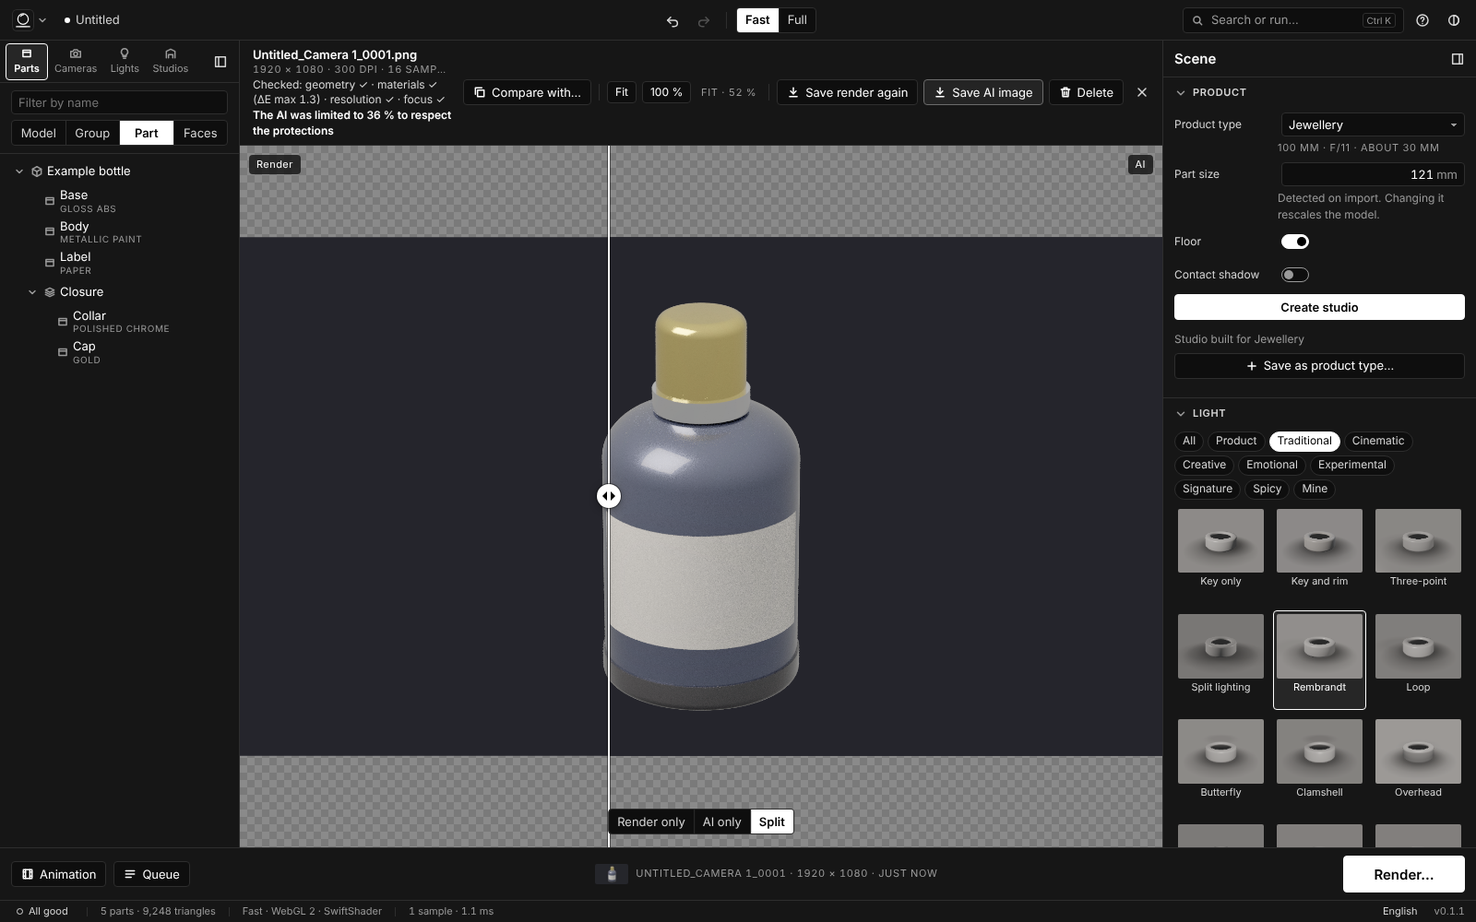
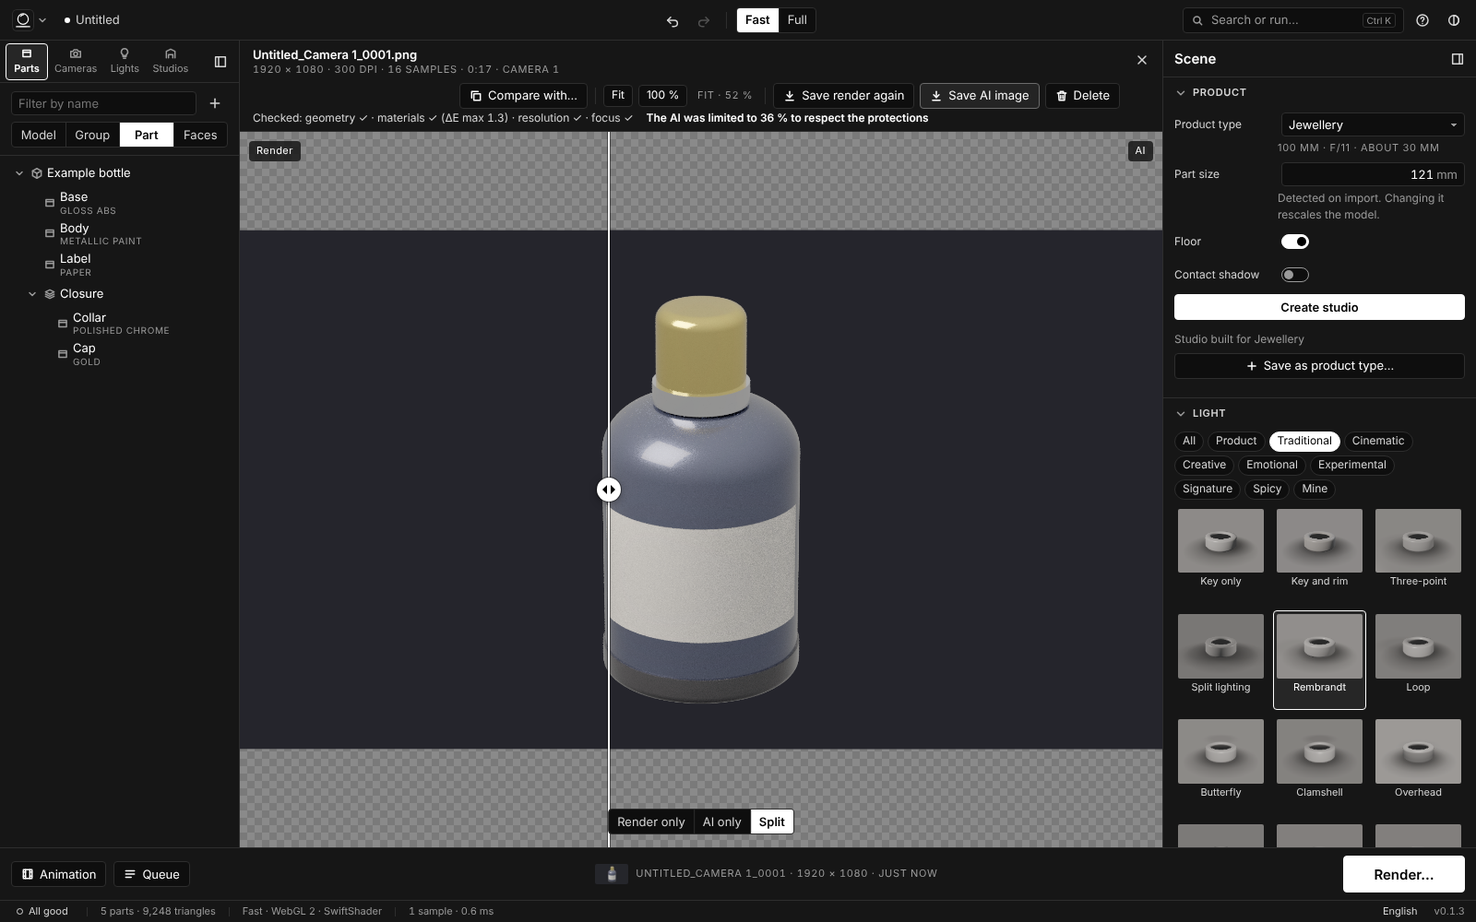
X3c: the render window knows the active model; the viewer's report gets a line of its own
Found by the screenshots against the real launcher:

- With no model chosen by hand the active model is the recommendation, and
  only Settings started the hardware detection it needs: on the desktop the
  AI switch said no model was downloaded and led to Settings. The desktop
  with aiPost now detects at start, the AI section starts it too, and the
  section asks again whenever what it asks changes (aiStatusKey in the new
  src/ui/ai-query.ts, which also holds aiRuntimeQuery and the
  recommendation). Tested, and the test fails with the old key.
- The results viewer squeezed the guard's report into a narrow column beside
  the title. The report now has a single line of its own across the header
  (ellipsis, full text in the tooltip), the toolbar wraps under the title
  when both do not fit, and Close stays in the corner.
  tools/ai-post-check.mjs (j) measures the header at 1600, 1280 and 960 px
  in English and Spanish and fails with the old header;
  docs/ui/ai-results-viewer.png and ai-results-light.png retaken.

Claude-Session: https://claude.ai/code/session_01Vyw8CoEN48cqBKpA2hjydX

diff --git a/src/ui/panels/results-viewer.ts b/src/ui/panels/results-viewer.ts
@@ -75,12 +75,14 @@ export function resultsViewer(ctx: Ctx, scope: Scope): HTMLElement {
   const hasAi = !!meta?.ai && meta.ai.bytes > 0;
   const saveBtn = h('button', { type: 'button', class: 'btn', onclick: () => meta && void cmd.saveResultAgain(ctx, meta.id) }, icon('download', 14), hasAi ? t('rv.saveRender') : t('rv.saveAgain'));
   const saveAiBtn = hasAi ? h('button', { type: 'button', class: 'btn', 'data-save': 'ai', onclick: () => meta && void cmd.saveResultAgain(ctx, meta.id, 'AI') }, icon('download', 14), t('rv.saveAi')) : null;
-  // The guard's report, in a line under the data (AI-POST.md §4): what was checked, and what the guard did.
+  // The guard's report (AI-POST.md §4): what was checked, and what the guard did. Its own line under the title and
+  // the toolbar, the whole width, one line; where it does not fit it ends in an ellipsis and the tooltip has it all,
+  // with what ran.
   const report = meta?.ai ? reportText(meta.ai.report) : null;
   const reportEl = report
     ? h(
         'div',
-        { class: 'rv-report', 'data-verdict': meta!.ai!.report.verdict, title: reportDetails(meta!.ai!.report, meta!.ai!.report.modelKey) },
+        { class: 'rv-report', 'data-verdict': meta!.ai!.report.verdict, title: `${[report.checked, report.note].filter(Boolean).join(' · ')}\n${reportDetails(meta!.ai!.report, meta!.ai!.report.modelKey)}` },
         report.checked ? h('span', { class: 'rv-report-checked tabular' }, report.checked) : null,
         report.note ? h('span', { class: `rv-report-note${meta!.ai!.report.verdict === 'REJECTED' ? ' is-rejected' : ''}` }, report.note) : null,
       )
@@ -106,7 +108,7 @@ export function resultsViewer(ctx: Ctx, scope: Scope): HTMLElement {
         )
       : null;
   const deleteBtn = h('button', { type: 'button', class: 'btn', 'data-tip': t('rv.deleteTip'), onclick: () => meta && void cmd.deleteResult(ctx, meta.id) }, icon('trash', 14), t('common.delete'));
-  const closeBtn = h('button', { type: 'button', class: 'icon-btn', 'aria-label': t('common.close'), 'data-tip': t('common.close'), 'data-kbd': t('key.escape'), onclick: () => cmd.closeResult(ctx) }, icon('close'));
+  const closeBtn = h('button', { type: 'button', class: 'icon-btn rv-close', 'aria-label': t('common.close'), 'data-tip': t('common.close'), 'data-kbd': t('key.escape'), onclick: () => cmd.closeResult(ctx) }, icon('close'));
   const memory = h('div', { class: 'note rv-memory' }, t('queue.storageMemory'));
   scope.watch((_s, u) => u.resultsStorage, (st) => (memory.style.display = st === 'MEMORY' ? '' : 'none'));
 
@@ -116,8 +118,16 @@ export function resultsViewer(ctx: Ctx, scope: Scope): HTMLElement {
     h(
       'div',
       { class: 'rv-head' },
-      h('div', { class: 'rv-info' }, title, data, reportEl, memory),
-      h('div', { class: 'rv-actions' }, compareBtn, h('span', { class: 'rv-sep' }), fitBtn, actualBtn, zoomText, h('span', { class: 'rv-sep' }), saveBtn, saveAiBtn, folderBtn, deleteBtn, closeBtn),
+      // The title block and the toolbar share a line while both fit; otherwise the toolbar goes under the title.
+      // Close stays in the corner.
+      h(
+        'div',
+        { class: 'rv-top' },
+        h('div', { class: 'rv-info' }, title, data, memory),
+        h('div', { class: 'rv-actions' }, compareBtn, h('span', { class: 'rv-sep' }), fitBtn, actualBtn, zoomText, h('span', { class: 'rv-sep' }), saveBtn, saveAiBtn, folderBtn, deleteBtn),
+      ),
+      reportEl,
+      closeBtn,
     ),
     frame,
   );

diff --git a/tests/ai-desktop-service.test.ts b/tests/ai-desktop-service.test.ts
@@ -9,6 +9,10 @@ import { FLOOR_ID, type RenderPasses } from '../src/core/passes';
 import { AiPostError, decodeLinearImage, DesktopAiService, encodeLinearImage, encodePasses, inlineBody, type AiPostState } from '../src/io/ai-post';
 import { parsePasses } from '../src/render/pass-planes';
 import { straightBytes, straightExr, straightOf, straightWords16, exactBytes, exactWords16, linearRgba } from '../src/render/tiles';
+import { emptySnapshot, type HardwareInfo } from '../src/core/models';
+import { AI_MODELS } from '../src/data/ai-models';
+import { aiRuntimeQuery, aiStatusKey } from '../src/ui/ai-query';
+import { defaultUiState, type UiState } from '../src/ui/ui-state';
 
 const REPORT: GuardReport = {
   verdict: 'ACCEPTED',
@@ -215,5 +219,30 @@ describe('the AI image of a RENDER source is written as the engine’s file (X3c
     expect([...pp.passes.normal!]).toEqual([0, 0, 1, 1, 0, 0]);
     expect([...pp.passes.coc!]).toEqual([0, 3.5]);
     expect(() => encodePasses({ width: 3, height: 1, depth: new Float32Array(2) })).toThrow(/depth/);
+  });
+});
+
+describe('what the render window asks the launcher with (X3c)', () => {
+  // The model downloaded in Settings, none chosen by hand: the active one is the recommendation for this computer.
+  const models = { ...emptySnapshot(AI_MODELS), ready: true, kind: 'native' as const, installed: ['ZIMAGE_Q4'] };
+  const cpuOnly: HardwareInfo = { detected: true, where: 'desktop', cores: 8, ramGiB: 24, gpus: [], webgpu: null, maxBufferBytes: null, device: 'cpu' };
+  const detecting: UiState = { ...defaultUiState(), models, hardware: { state: 'DETECTING', info: null } };
+  const detected: UiState = { ...detecting, hardware: { state: 'DONE', info: cpuOnly } };
+
+  it('asks again when the hardware detection ends, which is when the active model is known', () => {
+    // Before, it said NO_MODEL and the switch led to Settings although the model was downloaded.
+    expect(aiRuntimeQuery(detecting).model).toBeNull();
+    expect(aiRuntimeQuery(detected).model).toBe('ZIMAGE_Q4');
+    expect(aiStatusKey(detected)).not.toBe(aiStatusKey(detecting));
+  });
+
+  it('and when the person changes what the runtime is asked: the device, the backend, the model store', () => {
+    const key = aiStatusKey(detected);
+    expect(aiStatusKey({ ...detected, settings: { ...detected.settings, 'ai.device': 'CPU' } })).not.toBe(key);
+    expect(aiStatusKey({ ...detected, settings: { ...detected.settings, 'ai.backend': 'VULKAN' } })).not.toBe(key);
+    expect(aiStatusKey({ ...detected, models: { ...models, installed: [] } })).not.toBe(key);
+    expect(aiStatusKey({ ...detected, models: { ...models, ready: false } })).not.toBe(key);
+    // Nothing it is asked with changed: no new question.
+    expect(aiStatusKey({ ...detected, toasts: [] })).toBe(key);
   });
 });

diff --git a/src/ui/panels/ai-post.ts b/src/ui/panels/ai-post.ts
@@ -9,12 +9,12 @@
 // cannot draw the inputs) the section stays the placeholder it was: the switch says *coming soon*.
 
 import { AI_STYLES, type AiRuntimeStatus, type AiStyle } from '../../core/ai';
-import { recommend } from '../../core/ai-recommend';
 import { AI_PROTECTIONS, nextSeed, previewSize, switchAction, type SwitchAction } from '../../core/ai-post';
 import { linearToRgba8 } from '../../core/ai-image';
-import { activeModel, allModels, recommendInput } from '../../core/models';
+import { activeModel, allModels } from '../../core/models';
 import { AI_PERCENT_KEYS, type AiPercentKey, type AiSettings, type RenderSettings } from '../../core/render';
 import type { Label } from '../../data/types';
+import { aiStatusKey, recommendationOf } from '../ai-query';
 import { AiPreviewController, type AiPreviewInput, type AiPreviewState } from '../ai-preview';
 import { reportText } from '../ai-report';
 import * as cmd from '../commands';
@@ -59,8 +59,7 @@ function activeModelLine(ctx: Ctx): { key: string; line: string } | null {
   const snap = u.models;
   if (!snap || !snap.ready) return null;
   const models = allModels(snap);
-  const rec = u.hardware.state === 'DONE' ? recommend(recommendInput(u.hardware.info, u.settings['ai.device'], u.settings['ai.gpu']), snap.catalogue) : null;
-  const key = activeModel(u.settings['ai.active'], models, snap.installed, rec);
+  const key = activeModel(u.settings['ai.active'], models, snap.installed, recommendationOf(u));
   const m = key ? models.find((x) => x.key === key) : undefined;
   return m ? { key: m.key, line: t('rw.aiModelLine', { name: m.label[getLang()], licence: m.licence.spdx }) } : null;
 }
@@ -335,9 +334,11 @@ export function aiPostBody(ctx: Ctx, scope: Scope, env: AiSectionEnv): HTMLEleme
     (_s, u) => u.sections['rw.ai'] ?? true,
     (folded, prev) => prev !== undefined && !folded && preview.refresh(),
   );
-  // What the service can do changes with the models on this computer (a download finishing, another one chosen): ask again.
+  // What the service can do changes with what it is asked (the active model, which may be the recommendation for the
+  // hardware, so the detection is started here as Settings does) and the models on this computer: ask again.
+  void cmd.detectHardware(ctx);
   scope.watch(
-    (_s, u) => [u.models?.ready, u.models?.installed.join(','), u.settings['ai.active']].join('|'),
+    (_s, u) => aiStatusKey(u),
     () => void refreshStatus(),
   );
   return host;

diff --git a/src/ui/panels/settings-ai.ts b/src/ui/panels/settings-ai.ts
@@ -8,8 +8,8 @@
 // everything else works. Every size comes from the data, every speed and
 // time left from the bytes that arrived (io/downloads.ts).
 
-import { recommend, type Recommendation } from '../../core/ai-recommend';
-import { runtimeQuery, type AiRuntimeEntryState, type AiRuntimeQuery, type AiRuntimeReport } from '../../core/ai-runtimes';
+import type { Recommendation } from '../../core/ai-recommend';
+import type { AiRuntimeEntryState, AiRuntimeReport } from '../../core/ai-runtimes';
 import { aiRuntime, AI_RUNTIMES } from '../../data/ai-runtimes';
 import type { AiRecommendRow } from '../../data/ai-models';
 import {
@@ -26,7 +26,6 @@ import {
   MANIFEST_FORMAT,
   modelState,
   recommendationView,
-  recommendInput,
   rowBadges,
   runsHere,
   type ImportOutcome,
@@ -36,6 +35,7 @@ import {
   type ModelView,
 } from '../../core/models';
 import type { RowMeta, SettingMeta } from '../../core/settings';
+import { aiRuntimeQuery, recommendationOf } from '../ai-query';
 import * as cmd from '../commands';
 import { select, textField, toggle } from '../components/controls';
 import { showConfirmIn } from '../components/widgets';
@@ -61,21 +61,6 @@ export function currentRecommendation(ctx: Ctx): Recommendation | null {
   return recommendationOf(ctx.ui.get());
 }
 
-function recommendationOf(u: UiState): Recommendation | null {
-  const snap = u.models;
-  if (!snap || u.hardware.state !== 'DONE') return null;
-  return recommend(recommendInput(u.hardware.info, u.settings['ai.device'], u.settings['ai.gpu']), snap.catalogue);
-}
-
-/**
- * What the launcher's runtime is asked about (`/api/ai/runtime`, and every post of the desktop pipeline, X3c): the
- * person's backend and device, and the active model (the one chosen, else the fallback the manager would use).
- */
-export function aiRuntimeQuery(u: UiState): AiRuntimeQuery {
-  const snap = u.models;
-  const active = snap?.ready ? activeModel(u.settings['ai.active'], allModels(snap), snap.installed, recommendationOf(u)) : null;
-  return runtimeQuery(u.settings['ai.backend'], u.settings['ai.device'], active ?? null);
-}
 
 const modelName = (m: ModelView) => lbl(m.label);
 

diff --git a/src/ui/ai-query.ts b/src/ui/ai-query.ts
@@ -1,0 +1,35 @@
+// What the AI runtime is asked with (phase X3c): the person's settings, the active model and the recommendation the
+// active model falls back to. Shared by Settings ▸ AI post-processing, the render window's AI section and the
+// desktop service (main.ts), so that all three ask the launcher the same question.
+
+import { recommend, type Recommendation } from '../core/ai-recommend';
+import { runtimeQuery, type AiRuntimeQuery } from '../core/ai-runtimes';
+import { activeModel, allModels, recommendInput } from '../core/models';
+import type { UiState } from './ui-state';
+
+/** The recommendation for what was detected, by the rule of the catalogue (P2's core/ai-recommend.ts). */
+export function recommendationOf(u: UiState): Recommendation | null {
+  const snap = u.models;
+  if (!snap || u.hardware.state !== 'DONE') return null;
+  return recommend(recommendInput(u.hardware.info, u.settings['ai.device'], u.settings['ai.gpu']), snap.catalogue);
+}
+
+/**
+ * What the launcher's runtime is asked about (`/api/ai/runtime`, and every post of the desktop pipeline, X3c): the
+ * person's backend and device, and the active model (the one chosen, else the fallback the manager would use).
+ */
+export function aiRuntimeQuery(u: UiState): AiRuntimeQuery {
+  const snap = u.models;
+  const active = snap?.ready ? activeModel(u.settings['ai.active'], allModels(snap), snap.installed, recommendationOf(u)) : null;
+  return runtimeQuery(u.settings['ai.backend'], u.settings['ai.device'], active ?? null);
+}
+
+/**
+ * When the AI section asks the service for its status again: whenever the question changes (the person's backend
+ * or device, or the active model, which with no choice of theirs is the recommendation, so it changes when the
+ * hardware detection ends) or the models on this computer do (the store answering, a download finishing).
+ */
+export function aiStatusKey(u: UiState): string {
+  const q = aiRuntimeQuery(u);
+  return [q.force ?? '', q.cpu ? 'cpu' : '', q.model ?? '', u.models?.ready ? 'ready' : '', u.models?.installed.join(',') ?? ''].join('|');
+}

diff --git a/src/main.ts b/src/main.ts
@@ -51,12 +51,12 @@ import { PreviewEngine } from './render/preview';
 import { ThumbnailRenderer } from './render/thumbs';
 import { exactWords16, linearRgba, poolSize, straightBytes, straightExr, straightWords16 } from './render/tiles';
 import { mountApp } from './ui/app';
-import { exampleNames, loadExample, loadResults, maybeShowModelChooser, offerLastProject, requestCloseWindow } from './ui/commands';
+import { detectHardware, exampleNames, loadExample, loadResults, maybeShowModelChooser, offerLastProject, requestCloseWindow } from './ui/commands';
 import { installGuards } from './ui/guards';
 import { downloadBlob, openInNewTab } from './ui/dom';
 import { startupUpdateCheck } from './ui/updates';
 import type { AiPort, AppServices, EngineConfig, ViewportPort } from './ui/ports';
-import { aiRuntimeQuery } from './ui/panels/settings-ai';
+import { aiRuntimeQuery } from './ui/ai-query';
 import { isaLabel, L, setStringsPlatform, t } from './ui/strings';
 import { createUiStore, effectiveMode, type EngineInfo } from './ui/ui-state';
 import { applyUrlParams, readUrlParams } from './ui/url-params';
@@ -736,6 +736,9 @@ void nativeReady.then(async (native) => {
   // The inference runtime of the AI post-processing (X3b): Settings ▸ AI post-processing ▸ Runtime.
   if ((native.info.aiApi ?? 0) >= 1) services.aiRuntime = new AiRuntimeClient(native);
   const i = native.info;
+  // The AI pipeline (X3c) asks the launcher with the active model, which, unless the person chose one, is the
+  // recommendation for this computer: the hardware is detected now, not only when Settings opens.
+  if ((i.aiPost ?? 0) >= 1) void detectHardware(app.ctx);
   // The manager has read what the installer chose (if anything) once it has started.
   await modelsService.started;
   maybeShowModelChooser(app.ctx, { portable: i.portable, pending: !!pendingAtStart && pendingAtStart.keys.length > 0 });

diff --git a/src/ui/render.css b/src/ui/render.css
@@ -524,17 +524,28 @@
   background: var(--viewport-bg);
 }
 .rv-head {
+  position: relative;
   display: flex;
-  align-items: center;
-  gap: 12px;
+  flex-direction: column;
+  gap: 2px;
   flex: none;
   min-height: 52px;
-  padding: 6px 8px 6px 14px;
+  /* Room on the right for Close, which stays in the corner. */
+  padding: 6px 46px 6px 14px;
   background: var(--bg-1);
   border-bottom: 1px solid var(--line);
 }
+/* The title block and the toolbar: on one line while both fit; otherwise the toolbar wraps under the title (and its
+   buttons wrap among themselves), so the title block is never squeezed below its basis. */
+.rv-top {
+  display: flex;
+  flex-wrap: wrap;
+  align-items: center;
+  gap: 6px 12px;
+  min-height: 38px;
+}
 .rv-info {
-  flex: 1;
+  flex: 1 1 280px;
   min-width: 0;
 }
 .rv-title {
@@ -549,12 +560,17 @@
   text-overflow: ellipsis;
   white-space: nowrap;
 }
+/* The guard's report: its own line under the title and the toolbar, the whole width, one line (the tooltip has it
+   all). What the guard did ("limited to 23 %", rejected) follows on the same line. */
 .rv-report {
-  display: flex;
-  flex-wrap: wrap;
-  gap: 0 14px;
+  overflow: hidden;
+  text-overflow: ellipsis;
+  white-space: nowrap;
   font-size: var(--fs-label);
   color: var(--ink-1);
+}
+.rv-report-checked + .rv-report-note {
+  margin-left: 14px;
 }
 .rv-report-note {
   color: var(--ink-0);
@@ -562,9 +578,18 @@
 }
 .rv-actions {
   display: flex;
+  flex-wrap: wrap;
   align-items: center;
+  justify-content: flex-end;
   gap: 6px;
-  flex: none;
+  flex: 0 1 auto;
+  max-width: 100%;
+  margin-left: auto;
+}
+.rv-close {
+  position: absolute;
+  top: 7px;
+  right: 8px;
 }
 .rv-sep {
   width: 1px;

diff --git a/docs/ROADMAP.md b/docs/ROADMAP.md
@@ -2344,7 +2344,7 @@ oficial de Microsoft con `openExternal`: no redistribuimos sus DLL) y *Comprobar
 *Acerca de* lista stable-diffusion.cpp y ggml con sus textos MIT, copiados byte a byte de los *commits*
 fijados (`tools/third-party/`, `tools/licences.mjs`). **Página**: `src/io/ai-post.ts`
 (`DesktopAiService`: `status()` es `/api/ai/runtime` con los ajustes de la persona y el modelo activo,
-`aiRuntimeQuery`; `post()` manda, sigue, lee la imagen y olvida; un aborto manda `DELETE`); `main.ts` lo
+`aiRuntimeQuery` de `src/ui/ai-query.ts`; `post()` manda, sigue, lee la imagen y olvida; un aborto manda `DELETE`); `main.ts` lo
 usa cuando el lanzador dice `aiPost`, la web sigue con `notBuiltService` y `?ai=synthetic` con el
 sintético; **`AI_AVAILABLE` ya no existe**. La cola pide al render que deje los pases de la guarda en el
 lanzador (`aiPasses`, `passesInLauncher`: ni siquiera vuelven a la página; sin albedo, que la guarda no
@@ -2366,8 +2366,8 @@ cola, servicio de escritorio) contra el falso instalado donde iría la compilaci
 (`tests/ai-desktop.test.ts`); y una vez la tubería entera con stable-diffusion.cpp real y SD 1.5 con su
 ControlNet de profundidad en CPU (`real_post_with_sd15_and_its_depth_controlnet_on_the_cpu`, ignorada sin los pesos): el ejemplo de 256 × 192 con el suelo, Intervención 100 y 10 pasos (5 de muestreo a fuerza 0,4), **53 s** en 4 núcleos (13 s de carga de pesos, ~6,5 s por paso), aceptada al primer intento: detalle 0,998, bordes 0,02, ΔE₉₅ 1,9 en el coral y 1,6 en el azul; el suelo llegó a 2,2 y la guarda dejó su cambio de color al 71 %. Los pesos se borraron después. **Con el falso**: todo lo demás. Pruebas: 13 nuevas en
 Rust (3 de `rt-post`, 3 unitarias de `rt-app` y 9 de `tests/ai_post.rs`, una más ignorada con los pesos
-reales) y 27 de vitest (12 del servicio, 4 contra el lanzador real, 4 de la cola, 3 de los pases, 1 del
-sintético, 3 de la fila del motor y *Acerca de*), más las de X2 y X4 que cambian con el suelo; 25
+reales) y 29 de vitest (14 del servicio y de lo que se le pregunta, 4 contra el lanzador real, 4 de la cola, 3 de los pases, 1 del
+sintético, 3 de la fila del motor y *Acerca de*), más las de X2 y X4 que cambian con el suelo; 26
 mutaciones comprobadas, cada prueba falla si se rompe lo que guarda.
 
 **No encajó con el plan.** (1) **El control**: §3.2 pide bordes y profundidad al ControlNet, y *tile*
@@ -2395,7 +2395,19 @@ usa). (10) La tolerancia `detailSsim` (y las demás) se puede pasar en la petici
 calibrar en X1b; las pruebas lo usan para forzar reintentos. (11) Con el motor real, la primera
 llamada dice *inferencia* medio segundo antes de que `sd-server` pinte su barra de carga (el trabajo ya
 está `generating` y aún no hay barra); la fracción no retrocede y luego dice *cargando*: cosmético,
-anotado para X3b.
+anotado para X3b. (12) **El modelo activo en la ventana de render**: sin un modelo elegido a mano, el activo
+es la recomendación para el equipo, y la detección del equipo solo la lanzaba *Ajustes*; con el servicio de
+escritorio, el interruptor decía *No hay ningún modelo descargado* y llevaba a *Ajustes* aunque el modelo
+estuviera instalado (lo enseñaron las capturas contra el lanzador real). Ahora el escritorio con `aiPost`
+detecta el equipo al arrancar, la sección también la lanza, y la sección vuelve a preguntar cuando cambia lo
+que pregunta (`aiStatusKey`: el dispositivo, el *backend*, el modelo activo, los modelos instalados), con su
+prueba. (13) **La cabecera del visor de resultados** apretaba el informe de la guarda en una columna estrecha
+junto al título, una o dos palabras por línea (la barra de botones no cedía sitio): ahora el informe tiene su
+línea propia a todo lo ancho (una sola, con puntos suspensivos y el texto entero en el aviso), la barra pasa bajo
+el título cuando no caben juntos y *Cerrar* se queda en la esquina. `tools/ai-post-check.mjs` (j) lo mide a
+1600, 1280 y 960 px en inglés y en español (solapes, salidas de la cabecera, una línea, a todo lo ancho, el
+título entero) y falla con la cabecera de antes; capturas `docs/ui/ai-results-viewer.png` y
+`ai-results-light.png` rehechas.
 
 ### X3d · La web — **Opus**
 

diff --git a/docs/UI.md b/docs/UI.md
@@ -730,12 +730,18 @@ terminados) y en el almacenamiento del navegador hasta que se borran.
 primero la imagen del motor (siempre) y después la de la IA al lado
 (`…_AI.png`, en el formato del trabajo); el resultado conserva las dos y el
 **informe de la guarda**. El visor abre *Render* contra *IA* con el divisor
-(etiquetas *Render · IA*, botones *Solo render · Solo IA · Dividir*) y, bajo
-los datos, una línea: *Comprobado: geometría ✓ · materiales ✓ (ΔE máx 1,8) ·
-resolución ✓ · enfoque ✓* (la geometría reúne bordes, píxeles fuera de las
-regiones permitidas y detalle de banda alta; ΔE máx es el mayor ΔE₀₀ medio de
-un material), y *La IA se limitó al 23 % para respetar las protecciones* si
-la guarda tuvo que bajar la intervención. Si la guarda la **rechaza**, el
+(etiquetas *Render · IA*, botones *Solo render · Solo IA · Dividir*) y una
+línea propia bajo el título y la barra de botones, a todo lo ancho de la
+cabecera: *Comprobado: geometría ✓ · materiales ✓ (ΔE máx 1,8) · resolución ✓ ·
+enfoque ✓* (la geometría reúne bordes, píxeles fuera de las regiones
+permitidas y detalle de banda alta; ΔE máx es el mayor ΔE₀₀ medio de un
+material) y, en la misma línea, *La IA se limitó al 23 % para respetar las
+protecciones* si la guarda tuvo que bajar la intervención. Es siempre una sola
+línea: si no cabe acaba en puntos suspensivos y el aviso al pasar el ratón la
+tiene entera, con lo que se ejecutó. La barra de botones comparte línea con el
+título mientras caben los dos; si no, pasa debajo (y sus botones saltan de
+línea), sin estrechar nunca el título; *Cerrar* se queda en la esquina (X3c;
+`tools/ai-post-check.mjs` lo mide a 1600, 1280 y 960 px en los dos idiomas). Si la guarda la **rechaza**, el
 resultado queda con la imagen del motor sin cambios, el informe dice qué
 protección se rompió y no hay segunda imagen. Se guardan las dos por separado
 (*Guardar el render de nuevo*, *Guardar la imagen IA*); *Comparar con…* pone

diff --git a/docs/CHANGELOG.md b/docs/CHANGELOG.md
@@ -34,6 +34,7 @@ fase del roadmap (`ROADMAP.md`) de donde sale cada línea.
 - El *prompt* sale de los materiales, las luces y el estilo de la escena, con el negativo fijo; la guarda recibe la tabla de materiales con sus nombres (X3c).
 - En Windows, si al motor de ejecución le falta el entorno de Microsoft Visual C++ 2015–2022, *Ajustes ▸ Post-procesado IA ▸ Motor de ejecución* lo dice y ofrece *Instalar el entorno de Microsoft Visual C++…* (la página oficial de Microsoft) y *Comprobar de nuevo* (X3c).
 - *Acerca de* lista stable-diffusion.cpp y ggml con sus licencias MIT (X3c).
+- El visor de resultados da al informe de la guarda su propia línea, a todo lo ancho bajo el título y los botones, en vez de apretarlo en una columna estrecha junto al título; los botones pasan bajo el título cuando no caben a su lado, y *Cerrar* se queda en la esquina (X3c).
 - Un post-procesado por el que nadie pregunta (su ventana se cerró) se para solo a los dos minutos (X3c).
 
 ## v0.1.3 — 2026-10-13
